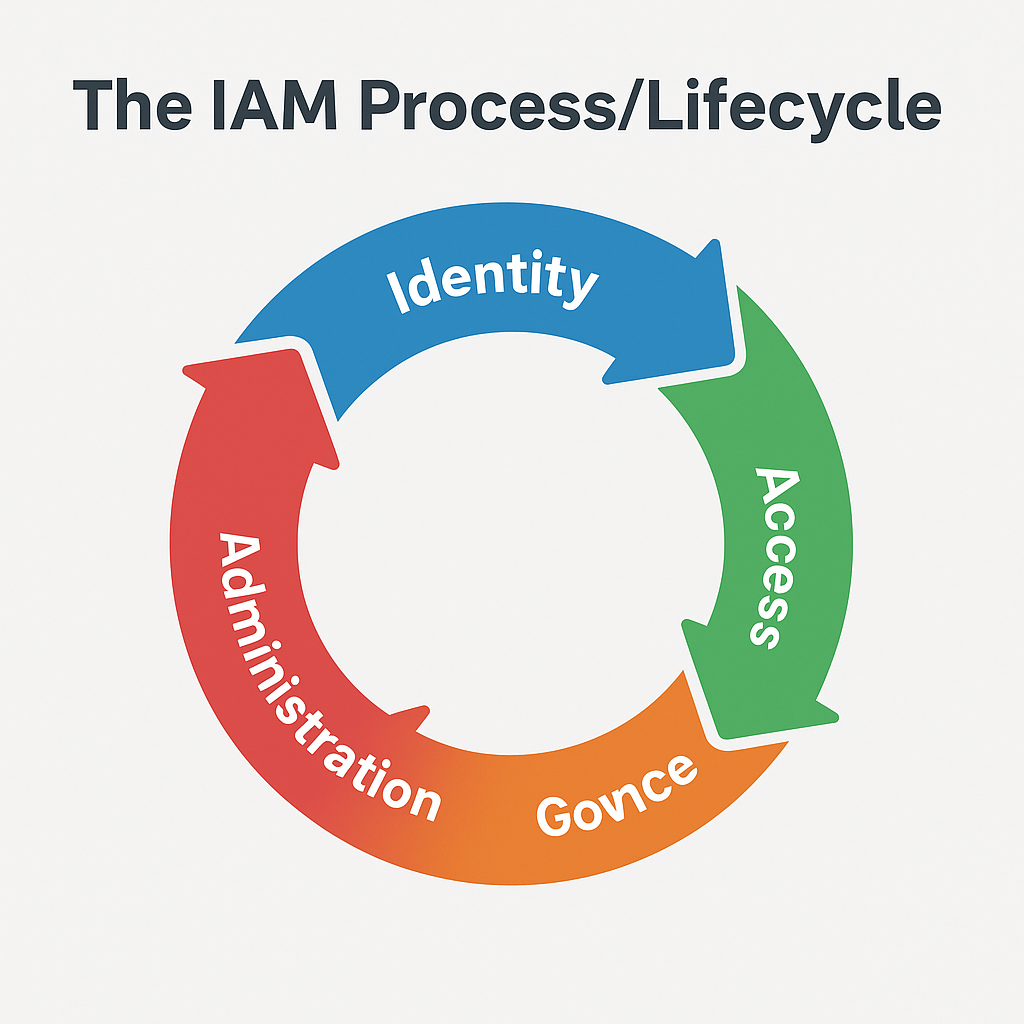
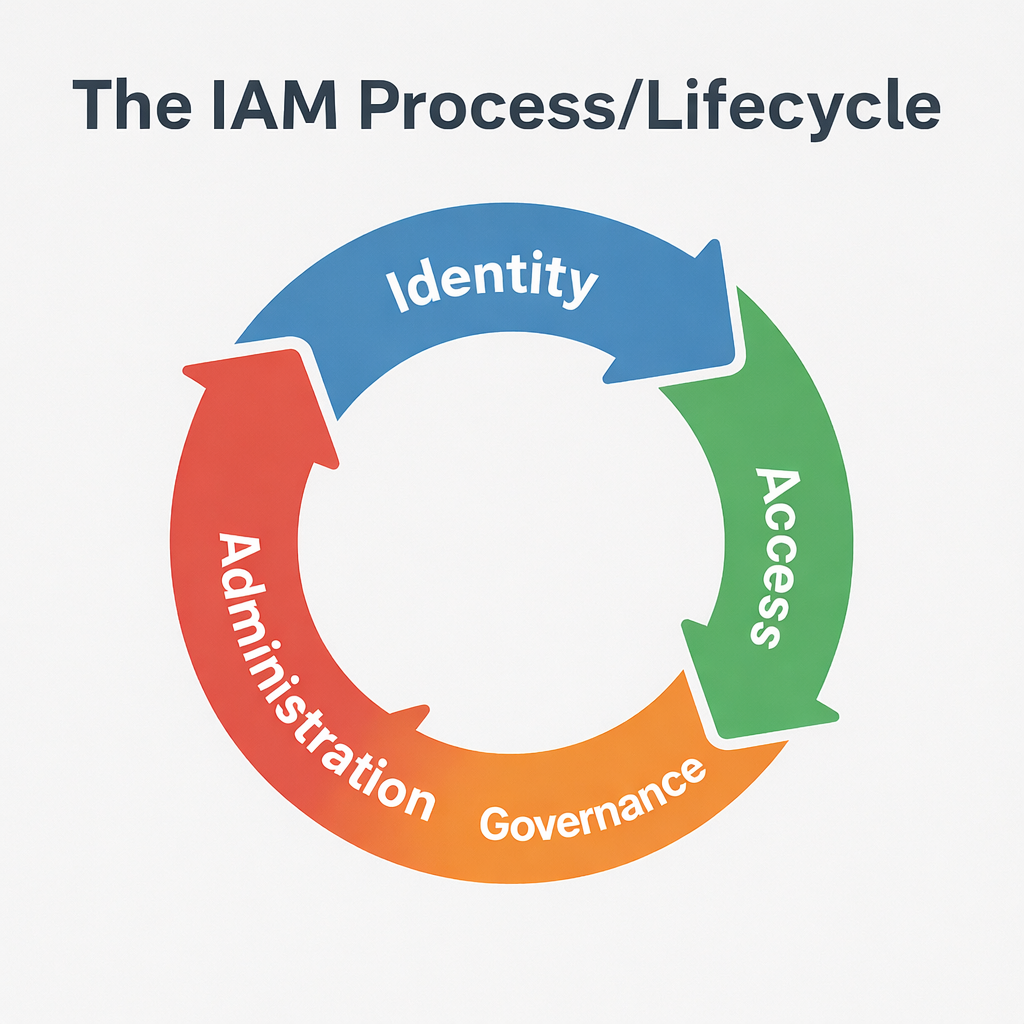
Update hero images and section styles across site
Replaced carousel and header images with i2.png, removing old images (carousel-1.webp, carousel-2.webp, IAM_Image.png). Updated CSS and HTML to reference the new image and adjusted section title markup and styles for consistency. Improved headings in contact.html and standardized section containers in index.html.

diff --git a/index.html b/index.html
@@ -63,7 +63,7 @@
     <div id="header-carousel" class="carousel slide carousel-fade" data-bs-ride="carousel">
         <div class="carousel-inner">
             <div class="carousel-item active">
-                <img class="w-100" src="images/carousel-1.webp" alt="Image">
+                <img class="w-100" src="images/i2.png" alt="Image">
                 <div class="carousel-caption d-flex flex-column align-items-center justify-content-center">
                     <div class="p-3" style="max-width: 900px;">
                         <!-- <h5 class="text-white text-uppercase mb-3 animated slideInDown">Creative & Innovative</h5> -->
@@ -80,16 +80,6 @@
                 </div>
             </div>
         </div>
-        <!-- <button class="carousel-control-prev" type="button" data-bs-target="#header-carousel"
-                data-bs-slide="prev">
-                <span class="carousel-control-prev-icon" aria-hidden="true"></span>
-                <span class="visually-hidden">Previous</span>
-            </button>
-            <button class="carousel-control-next" type="button" data-bs-target="#header-carousel"
-                data-bs-slide="next">
-                <span class="carousel-control-next-icon" aria-hidden="true"></span>
-                <span class="visually-hidden">Next</span>
-            </button>  -->
     </div>
     </div>
     <!-- Navbar & Carousel End -->
@@ -99,7 +89,7 @@
         <div class="container py-5">
             <div class="row g-5">
                 <div class="col-lg-7">
-                    <div class="section-title position-relative pb-3 mb-5">
+                    <div class="section-title position-relative pb-3 mb-5", style="max-width: 600px;">
                         <h2 class="fw-bold text-primary text-uppercase">About Us</h2>
                         <h5 class="mb-0">Experts in Digital Identity Transformation</h5>
                     </div>
@@ -303,7 +293,7 @@
 
     <!-- Industries We Serve Start -->
     <div class="container py-5">
-        <div class="section-title text-center mb-5">
+            <div class="section-title text-center position-relative pb-3 mb-5 mx-auto" style="max-width: 600px;">
             <h2 class="fw-bold text-primary text-uppercase">Industries We Serve</h2>
             <h5 class="mb-0">Empowering Businesses Across Sectors</h5>
         </div>
@@ -358,7 +348,7 @@
 
     <!-- Our Process Start -->
     <div class="container py-5">
-        <div class="section-title text-center mb-5">
+            <div class="section-title text-center position-relative pb-3 mb-5 mx-auto" style="max-width: 600px;">
             <h2 class="fw-bold text-primary text-uppercase">Our Process</h2>
             <h5 class="mb-0">How We Deliver IAM Excellence</h5>
         </div>

diff --git a/css/style.css b/css/style.css
@@ -417,15 +417,15 @@ h6,
 }
 
 .bg-header {
-    background: linear-gradient(rgba(9, 30, 62, .7), rgba(9, 30, 62, .7)), url(../images/carousel-2.webp) center center no-repeat;
+    background: linear-gradient(rgba(9, 30, 62, .7), rgba(9, 30, 62, .7)), url(../images/i2.png) center center no-repeat;
     background-size: cover;
-    /* height: 750px; */
+    height: 550px;
 }
 
 .blogs-header {
-    background: linear-gradient(rgba(9, 30, 62, .7), rgba(9, 30, 62, .7)), url(../images/IAM_Image.png) center center no-repeat;
+    background: linear-gradient(rgba(9, 30, 62, .7), rgba(9, 30, 62, .7)), url(../images/i2.png) center center no-repeat;
     background-size: cover;
-    /* height: 750px; */
+    height: 550px;
 }
 .link-animated a {
     transition: .5s;

diff --git a/contact.html b/contact.html
@@ -75,8 +75,8 @@
     <div class="container-fluid py-5 wow fadeInUp" data-wow-delay="0.1s">
         <div class="container py-5">
             <div class="section-title text-center position-relative pb-3 mb-5 mx-auto" style="max-width: 600px;">
-                <h5 class="fw-bold text-primary text-uppercase">Contact Us</h5>
-                <h1 class="mb-0">Contact Us Today to Discover How We Can Support Your Business Growth</h1>
+                <h2 class="fw-bold text-primary text-uppercase">Contact Us</h2>
+                <h5 class="mb-0">Contact Us Today to Discover How We Can Support Your Business Growth</h5>
             </div>
             <div class="row g-5 mb-5">
                 <div class="col-lg-12">

diff --git a/blog.html b/blog.html
@@ -76,7 +76,9 @@
             <div class="row g-5">
                 <!-- Blog Details Section -->
                 <div class="col-md-8">
-                    <h3 class="mb-3">Blog Details</h3>
+                    <div class="section-title position-relative pb-3 mb-5" , style="max-width: 600px;">
+                        <h3 class="mb-3">Blog Details</h3>
+                    </div>
                     <div class="card">
                         <div class="card-body">
                             <h2 id="blog-title" class="card-title text-primary">Click a blog to read</h2>
